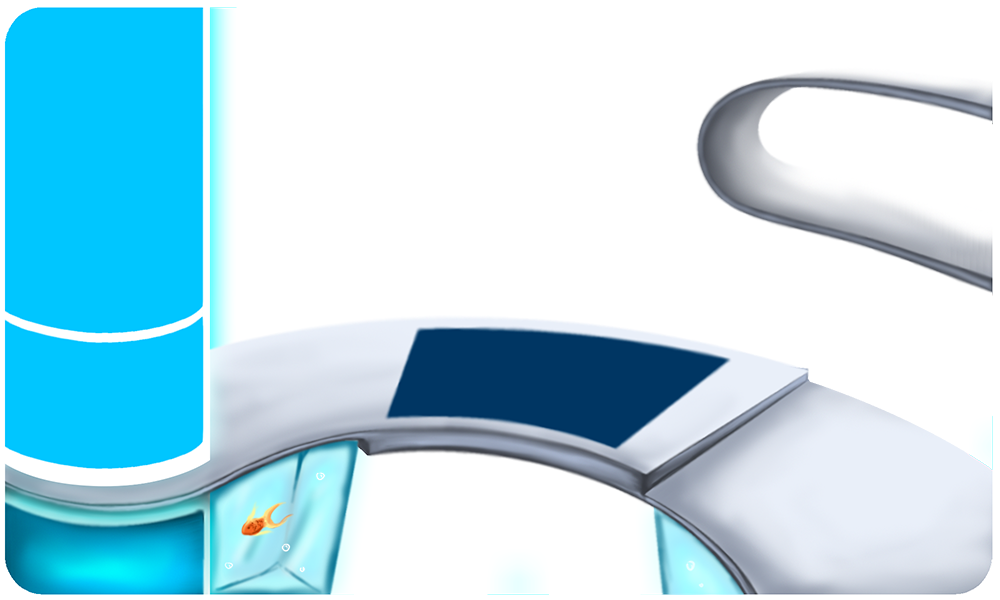
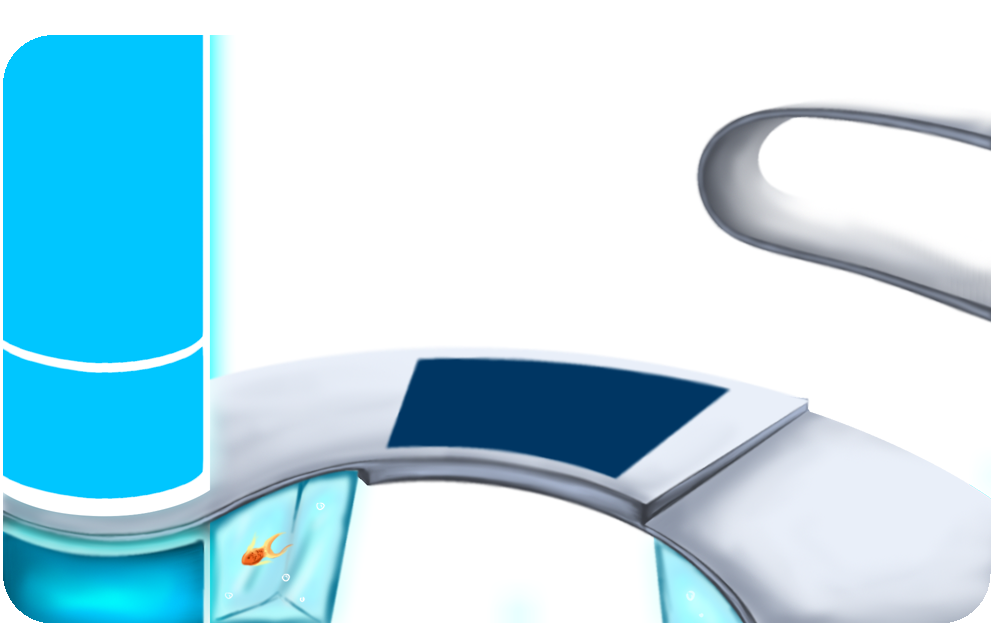
grafik

diff --git a/js/Kitchen.js b/js/Kitchen.js
@@ -22,7 +22,7 @@ function Kitchen(canvasId) {
     // for callback
     var that = this;
 
-    this.menuStage = new MenuBackground(this.stage.getContext(), 0, 0, 1000, 600, "images/Menu/startMenu.png", 100);
+    this.menuStage = new MenuBackground(this.stage.getContext(), 0, 0, 1000, 630, "images/Menu/startMenu.png", 100);
     this.menuButton1 = new MenuButton(this.stage.getContext(), 500, 300, 200, 60, "images/Menu/menuButton.png", 101, 0);
     this.menuButton2 = new MenuButton(this.stage.getContext(), 500, 400, 200, 60, "images/Menu/menuButton.png", 101, 1);
     this.menuButton3 = new MenuButton(this.stage.getContext(), 500, 500, 200, 60, "images/Menu/menuButton.png", 101, 2);
@@ -67,7 +67,7 @@ function Kitchen(canvasId) {
 
 
     var fridgeButton = new FridgeButton(this.stage.getContext(), 150, 150, 30, 30, "images/utilities/fridgeButton.png", 5, "fridgebutton");
-    var kitchenBackground = new VisualRenderObject(this.stage.getContext(), 0, 0, 1000, 600, "images/kitchenComponents/kitchenBackgroundTest.png", 1);
+    var kitchenBackground = new VisualRenderObject(this.stage.getContext(), 0, 0, 1000, 630, "images/kitchenComponents/kitchenBackgroundTest.png", 1);
 
     this.stage.addToStage(kitchenBackground);
     this.stage.addToStage(fridgeButton);

diff --git a/index.html b/index.html
@@ -11,13 +11,12 @@
         }
     </script>
     <style>
-        div { margin:0px auto; width:1000px; height:600px;}
-        canvas { border:1px solid black;}
+        div { margin:0px auto; width:1000px; height:630px;}
     </style>
 </head>
 <body>
 <div >
-    <canvas id="kitchenCanvas" width="1000" height="600">
+    <canvas id="kitchenCanvas" width="1000" height="630">
         Your Browser does not support the canvas element!
     </canvas>
 </div>
